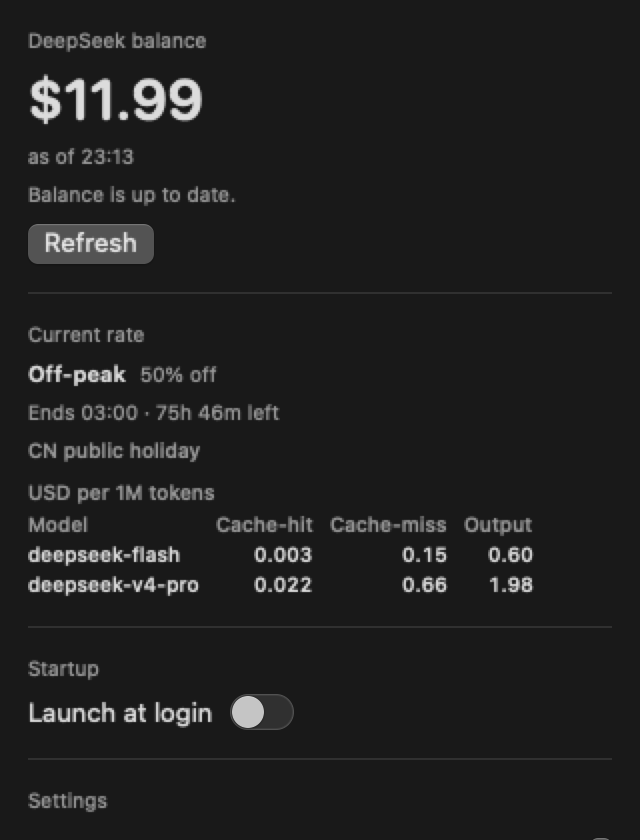
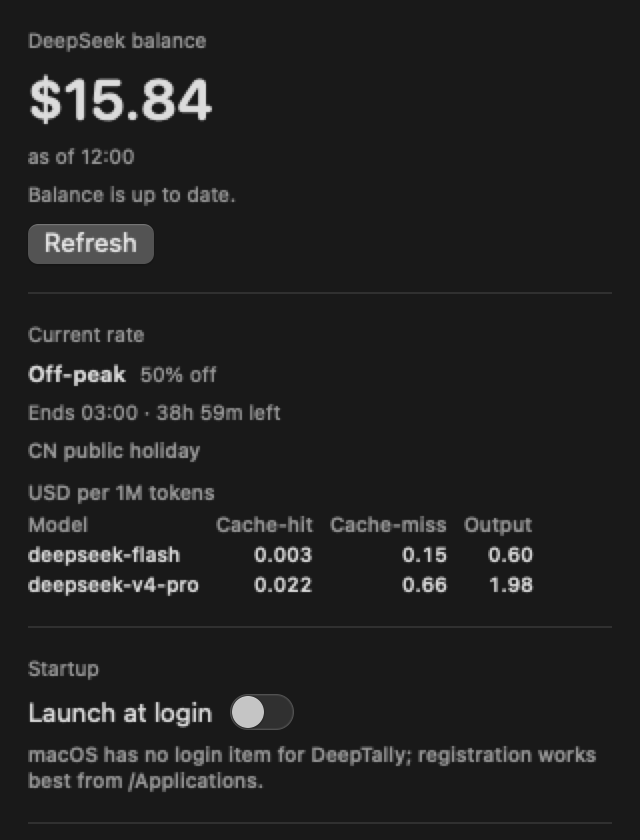
docs: close Step 6.6, regenerate the API-only screenshots

Changed region(s): [[0.0312, 0.8667, 0.9375, 0.9905], [0.125, 0.0929, 0.3438, 0.2167], [0.25, 0.4643, 0.4375, 0.5262]]

diff --git a/docs/PLAN.md b/docs/PLAN.md
@@ -1,6 +1,6 @@
 # DeepTally — implementation plan
 
-**Status:** Step 6 complete · Steps 4, 5 and 6.5 **reverted by owner decision** (API-only) · Step 6.6 in progress · **Last updated:** 2026-09-26 · **Owner:** @genoma
+**Status:** Steps 4, 5 and 6.5 reverted by owner decision (API-only); Step 6.6 complete · **Last updated:** 2026-09-26 · **Owner:** @genoma
 **Name:** DeepTally · **Repo:** `genoma/deeptally` · **Bundle:** `io.github.genoma.deeptally` · **CLI:** `deeptally`
 
 > **How we work:** one step at a time. A step is only done when its **gate** passes, its checkboxes are
@@ -21,7 +21,7 @@
 | 6 | Name | **DeepTally** (repo `deeptally`) | 0 GitHub name collisions; "DeepSeek" kept in the README, not the product name |
 | 7 | CLI | `deeptally` sharing `DeepTallyCore` | Enables brew **formula** (not cask), scripting, SwiftBar, testability. Renamed from `dtally` — too cryptic |
 | 8 | Repo model | **Git flow** (`main`/`develop`, `feature/*`, `release/*`, `hotfix/*`) + **SemVer** + Conventional Commits | User requirement |
-| 9 | Proxy capture | **Pulled forward 2026-09-26** (was v1.1): opt-in, binds 127.0.0.1 only, forwards to api.deepseek.com only, records counters and never keys or content | DeepSeek has **no usage or spend endpoint** — only `/user/balance` and the per-response `usage` field — and per-harness importers bind the ledger to one client (a pi importer was stopped mid-build for exactly that reason). Capturing at the API boundary is the only harness-agnostic path |
+| 9 | Proxy capture | **Removed 2026-09-26; no capture of any kind ships** | The owner chose an API-only product (Step 6.6). The proxy was the only harness-agnostic capture point and it worked; it is deleted rather than shipped off by default because an account balance is the product. DeepSeek returns usage only per response, to the caller, and stores nothing queryable |
 | 10 | Privacy | Local-only, no telemetry, counters never content | Non-negotiable |
 | 11 | Menu bar metric | **balance** | Glanceable, slow-moving |
 | 12 | Low-balance alert | **$2.00** | User choice; configurable in Settings |
@@ -393,7 +393,7 @@ Raw rows pruned at 400 days; `daily` rollups kept. Export = CSV (never the prima
     from; the balance is the only signal for them.
 
 ### Step 6.6 — API-only simplification (owner decision 2026-09-26)
-**Status:** in progress
+**Status:** complete — independent-reviewed 2026-09-26 (no P0/P1; four P2s closed)
 
 > **Decision (owner, 2026-09-26):** DeepTally is an API-only application. Its product is *how much money is left*,
 > with the rates that explain what a request would cost. Everything that needs local capture is deleted: the ledger
@@ -403,17 +403,40 @@ Raw rows pruned at 400 days; `daily` rollups kept. Export = CSV (never the prima
 > returns usage only per response, to the caller, and stores nothing queryable; the balance is the only
 > account-level number.
 
-- [ ] Delete every usage source and its wiring: core `Ledger/`, `Import/`, `Proxy/`, the app's local-usage ledger,
-      analytics, proxy server/upstream, transfer panels, and the CLI's `usage` / `import` / `ledger` commands
-- [ ] Simplify settings to what remains: refresh cadence, low-balance threshold, notifications and cooldown, login
-      item; a menu bar that always shows the balance
-- [ ] Keep and verify the API-only surface: `balance` (app and CLI), the rate-now panel and price table, the key
-      commands, alerts, settings, uninstaller, install/release machinery
-- [ ] Rewrite the docs around the smaller product (`README`, `USAGE`, `PRIVACY`, `ARCHITECTURE`, `AGENTS`,
-      `DEVELOPMENT`, `RELEASING`, `INSTALL`, `CHANGELOG`)
-  **Gate:** `make verify` green on the reduced test suite; the popover renders balance and rate with no usage
-  section; `deeptally balance` and `deeptally rate` work and an unknown `usage` command fails cleanly; no source or
-  doc reference to a deleted feature remains.
+- [x] Delete every usage source and its wiring: core `Ledger/`, `Import/`, `Proxy/`, the app's local-usage ledger,
+      analytics, proxy server/upstream, transfer panels, and the CLI's `usage` / `import` / `ledger` commands —
+      42 files and about 14,500 lines gone in `c3f8584`; the dead API members the review found (`/models`,
+      `ModelInfo`, `keyFromEnvironment`) went with them in `0d4d887`
+- [x] Simplify settings to what remains: refresh cadence, low-balance threshold, notifications and cooldown, login
+      item; a menu bar that always shows the balance — with a test proving an old blob carrying the removed keys
+      still loads the retained fields, so an upgrade loses nothing
+- [x] Keep and verify the API-only surface: `balance` (app and CLI), the rate-now panel and price table, the key
+      commands, alerts, settings, uninstaller, install/release machinery — `make verify` green on 197 tests
+      (147 core + 6 CLI + 44 app), down from 396
+- [x] Rewrite the docs around the smaller product (`README`, `USAGE`, `PRIVACY`, `ARCHITECTURE`, `AGENTS`,
+      `DEVELOPMENT`, `INSTALL`, `CHANGELOG`) — 10 files, 128 relative links checked, and the popover screenshots
+      regenerated from the API-only build with the now-unused settings image deleted
+
+  **Gate evidence (2026-09-26, all observed):**
+  - `make verify` green: build, tests, lint, bundle, `codesign --verify --strict`; `VERSION=0.1.0 make dmg` still
+    produces the five release artifacts.
+  - The popover renders balance, current rate and startup only (JSON and PNG both inspected); the docs images were
+    regenerated from that build.
+  - CLI: `--help` lists balance, rate, key status/import/delete, version and help; `rate` prints the off-peak
+    window and prices; `balance` prints the real balance with its granted/topped-up split; `usage`, `import` and
+    `ledger` exit 1 as unknown commands, now covered by `CommandSurfaceTests`.
+  - **Independent review (fresh context, read-only):** no P0/P1. It traced balance, alerts, key precedence, rate,
+    settings, login item and uninstaller hop by hop and found nothing removed that they need; the four P2s were
+    dead API members, a CLI coverage gap, stale user-visible text (formula description, uninstaller help, the
+    README hero tagline) and the docs list — all closed.
+  - **What the product is now:** a menu bar app and CLI that show the DeepSeek account balance, a low-balance
+    alert, and the peak/off-peak rates in force. It cannot show spend history, because DeepSeek exposes no usage
+    endpoint; the README, `USAGE.md` and `PRIVACY.md` state that plainly instead of promising a workaround.
+  - **The old ledger file is left on disk** at `~/Library/Application Support/DeepTally/ledger.sqlite`, untouched by
+    the app; the uninstaller removes it with the app-support directory when the user asks. No user data was deleted
+    by this step.
+  **Gate:** `make verify` green ✅ · popover renders balance and rate only ✅ · `deeptally usage` fails cleanly ✅ ·
+  no source or doc reference to a deleted feature ✅
 
 ### Step 7 — v0.1.0
 - [ ] `release/0.1.0` branch, CHANGELOG, tag `v0.1.0` on `main`, DMG + checksums published
@@ -529,3 +552,6 @@ Commits drive the CHANGELOG. Artifacts: DMG + `SHA256SUMS` + source tarball, pub
 | 2026-09-26 | 6.5 | App server and docs merged (`f00ffe9`, `68df0ba`): NWListener with origin-form-only forwarding and explicit 400/501/502 refusals, settings toggle (off by default) plus port stepper, one ledger row per completion with `source: .proxy`, headless `--spike proxy`. 396 tests. **Live gate passed:** a streaming and a non-streaming completion with the real key landed two rows (`input 37 · output 0 · reasoning 4 · cache_read 0 · 8 µUSD` each, exactly the responses' own numbers), `deeptally usage --json` reported spend `0.000016` with 2 requests, and `lsof` showed `127.0.0.1` only. Docs lane flagged the gap the parent then documented: **no cross-source dedupe** — a client that is both imported and proxied double counts, so the rule is one path per client (opencode stays on its import; pi and scripts use the proxy). |
 | 2026-09-26 | 6.5 | Independent read-only review of the proxy: **no P0/P1**, seven P2s all closed — request-side hop-by-hop headers per RFC 7230 §6.1, a 32-connection cap and a 30-second idle-read timeout, 400 instead of 502 for an unparseable target, second-rounded id-less dedupe, a stale caption on a port change, and two documentation mismatches. The reviewer's weakest assumption (`Accept-Encoding: identity` with the header dropped) was verified against the live API; the gate gained loopback-only and refusal assertions (absolute-form → 400, chunked → 501). 396 tests, gate re-run green. |
 | 2026-09-26 | 6.6 | **Owner decision after the council: API-only.** DeepSeek exposes no usage or spend endpoint; per-call usage is handed to the caller and never stored, so no API-only history exists. The app keeps balance, rates, key handling, alerts, settings and the release machinery; the ledger, opencode importer, loopback proxy, analytics, CSV, reprice and the usage/import/ledger commands are deleted. Reverts Steps 4, 5 and 6.5 by decision, not by failure. |
+| 2026-09-26 | 6.6 | **API-only reduction executed** (`c3f8584`): 42 files and about 14,500 lines deleted — the ledger (schema, rollups, migrations), the opencode importer, the loopback proxy and its reader, the analytics panel, CSV import/export, reprice, the `usage`/`import`/`ledger` CLI commands and `DEEPTALLY_LEDGER`. Balance, rate, key handling, alerts, settings, login item, uninstaller and the release machinery stay. Tests 396 → 194, then 197 after the review's command-surface suite. |
+| 2026-09-26 | 6.6 | Independent read-only review of the reduction: **no P0/P1**; it walked balance, alerts, key precedence, rate, settings, login item and uninstaller and found nothing removed that they need. Four P2s closed in `0d4d887`: dead API members deleted, the CLI surface covered by tests, stale user-visible text fixed (formula description, uninstaller help, the README hero tagline regenerated), and the docs list passed to the rewrite lane. |
+| 2026-09-26 | 6.6 | Docs rewritten for the smaller product (`a7fcaee`, 10 files, 128 relative links checked, every CLI example pasted from the shipped binary) and the popover screenshots regenerated from the API-only build; the now-unused settings image was deleted. **Step 6.6 closed.** The app is a balance and rate meter: it cannot show spend history because DeepSeek has no usage endpoint, and it no longer pretends otherwise. |
